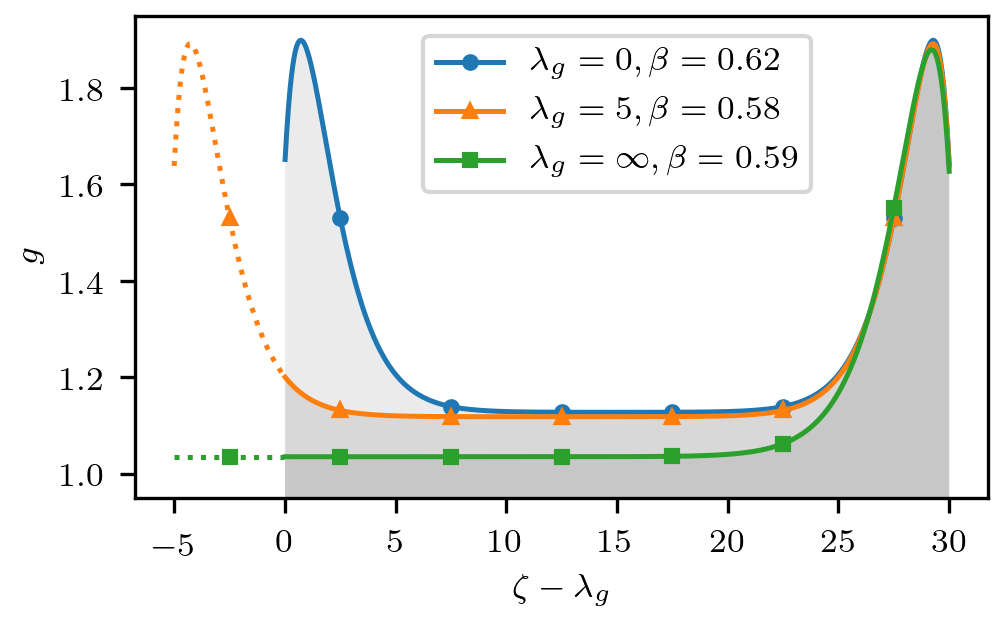
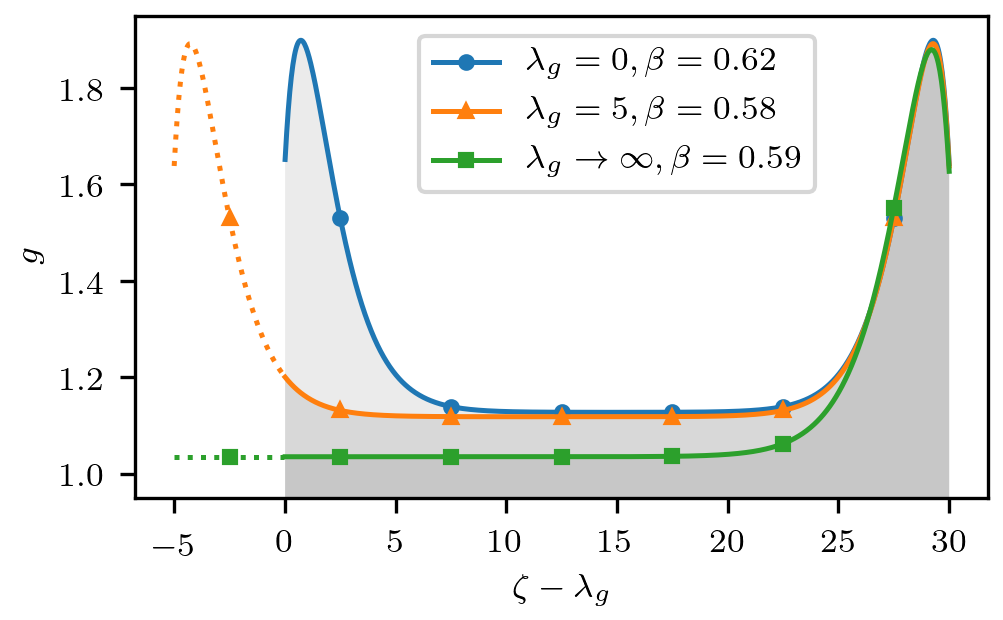
Corrected 32eta_2000mm coefficient

diff --git a/sandbox/guard.py b/sandbox/guard.py
@@ -91,7 +91,7 @@ beta = popt[1]
 i = finite_length_current_density(geo, elec, zeta=zeta_p, eta=-10, normalize='OML')
 ax.fill_between(zeta_p, i, color=color, alpha=alpha, lw=0)
 line, = ax.plot(zeta_p, i, lw=lw,
-                label='$\\lambda_g=\\infty, \\beta={:.2f}$'.format(beta),
+                label='$\\lambda_g\\rightarrow\\infty, \\beta={:.2f}$'.format(beta),
                 marker=markers[2], markersize=ms, markevery=(1000,1000))
 i = finite_length_current_density(geo, elec, zeta=zeta_n, eta=-10, normalize='OML')
 ax.plot(zeta_n, i, ':', color=line.get_color(), lw=lw)
